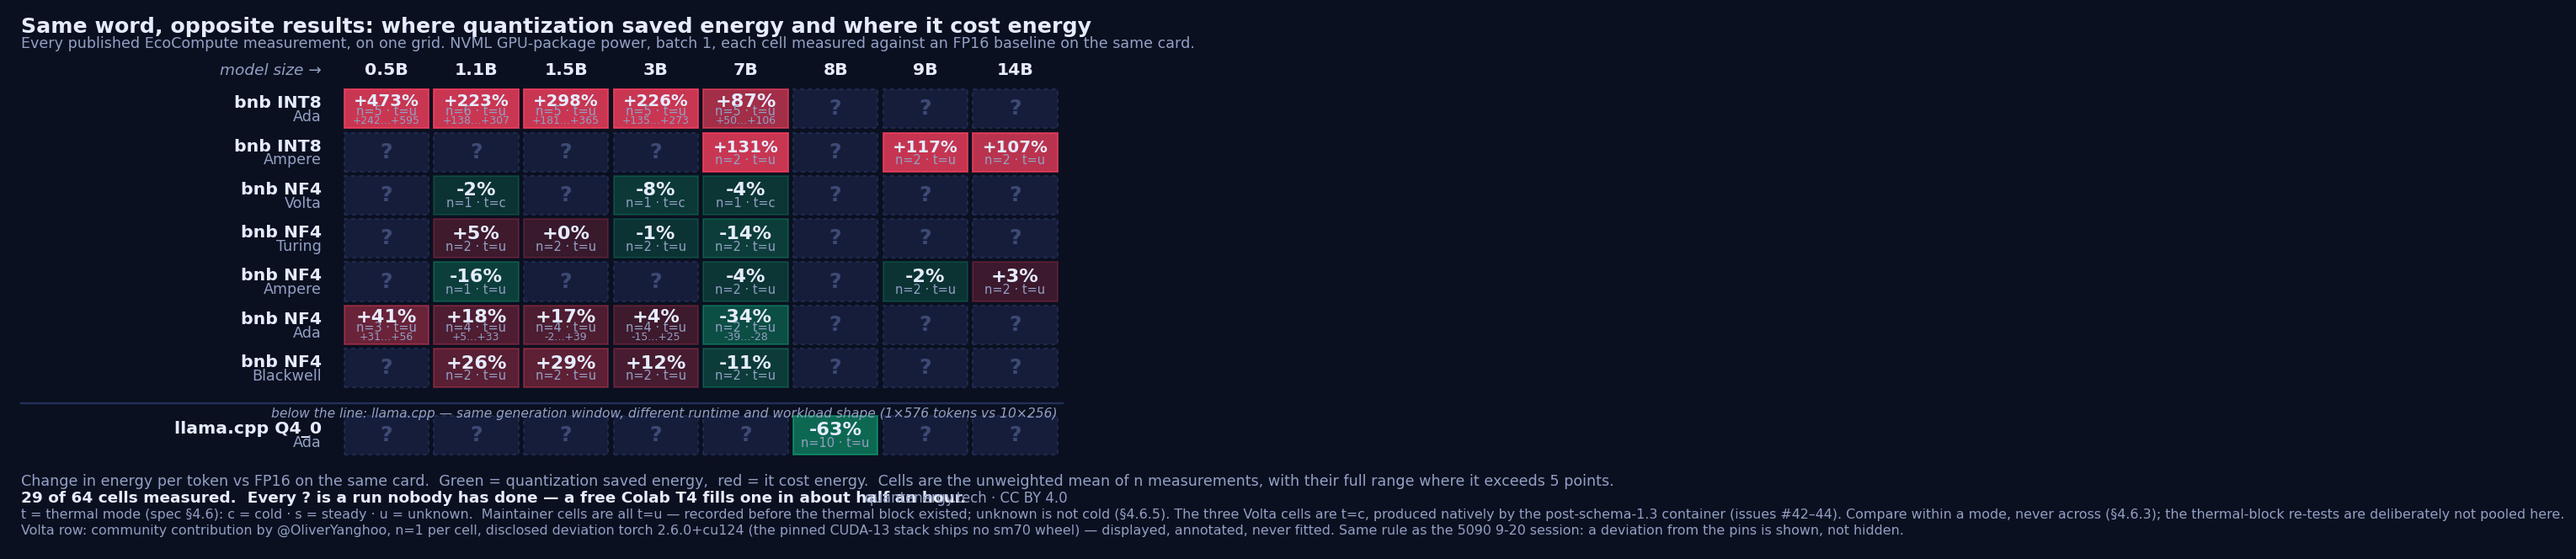
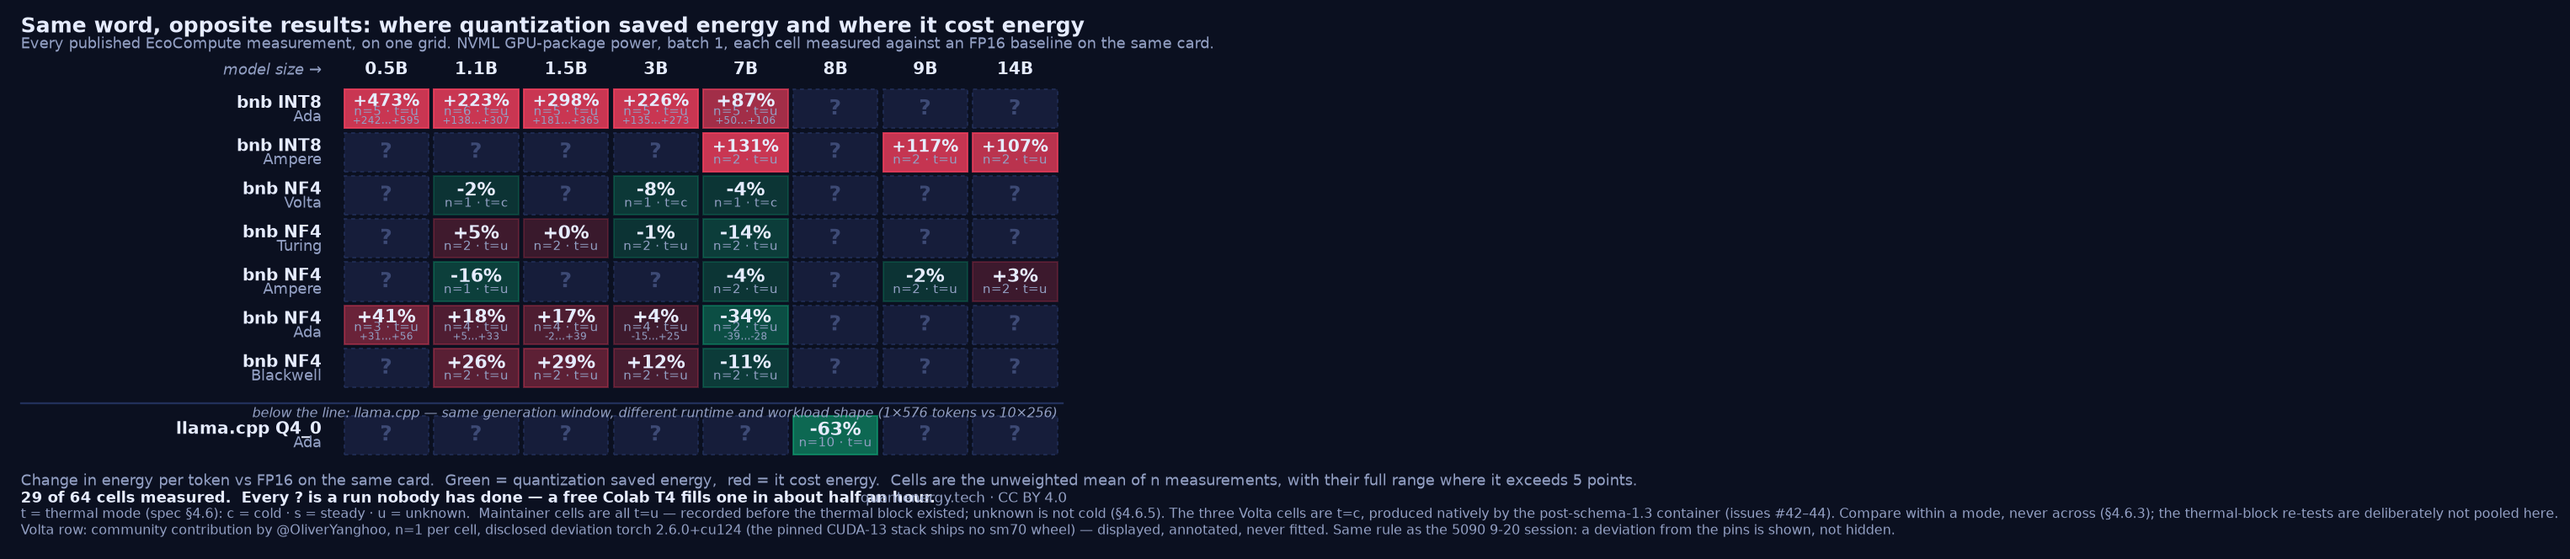
volta cells gain their measured perplexity deltas (+5.01/+27.56/+22.48 from the quality blocks of #42-44); trustbar card says '4 arch. classes fitted' to match the glossary's 5-classes-measured wording; zh homepage gains a bench entry; bench embed PNG re-exported dark with lifted stroke contrast (7.

diff --git a/index.html b/index.html
@@ -466,7 +466,7 @@
     </p>
 <div class="trustbar" aria-label="What backs these numbers">
       <a href="/method/">Protocol v1.1 · normative</a>
-      <a href="/measured/" title="Crossover anchors: distinct GPU × model × precision points behind the fitted curves. 5 GPU models across 4 architecture classes. Definition at /method/#glossary.">29 anchors · 5 GPU models · 4 arch. classes</a>
+      <a href="/measured/" title="Crossover anchors: distinct GPU × model × precision points behind the fitted curves. 5 GPU models across the 4 architecture classes with fitted curves. Definition at /method/#glossary.">29 anchors · 5 GPU models · 4 arch. classes fitted</a>
       <a href="/method/#glossary" title="Every count on this site, with its denominator.">All counts defined · glossary</a>
       <a href="/method/">NVML @ 10&nbsp;Hz · GPU package</a>
       <a href="/container/">MLCube-compatible</a><a href="/bench/">Method diagram · interactive</a>

diff --git a/bench/index.html b/bench/index.html
@@ -118,7 +118,7 @@ body{margin:0;background:var(--anatomy-page);color:var(--anatomy-text);font:14px
 <meta property="og:title" content="The differential power bench · EcoCompute">
 <meta property="og:url" content="https://quantenergy.tech/bench/">
 <meta property="og:description" content="An interactive isometric diagram of the differential measurement method: a two-arm power bench, live readouts, spinning flywheel and a chart recorder. Self-contained single file, works offline.">
-<meta property="og:image" content="https://quantenergy.tech/bench/bench-light.png">
+<meta property="og:image" content="https://quantenergy.tech/bench/bench.png">
 <meta property="og:image:width" content="1080">
 <meta property="og:image:height" content="780">
 <meta name="twitter:card" content="summary_large_image">

diff --git a/zh/index.html b/zh/index.html
@@ -118,6 +118,7 @@
         <h3>我想验证结果</h3>
         <p>用 Colab 或容器在你自己的卡上跑出 energy.json，再叠到公开曲线上。</p>
         <ul>
+          <li><a href="/bench/">先看一眼方法示意图</a>（交互）：跑之前，一张图看懂差分测量在测什么</li>
           <li>免费 Colab T4 即可（20–35 分钟）</li>
           <li><a href="#run">三行命令：下载 → 校验 → 运行</a></li>
           <li><a href="/blog/zh-container-guide.html">容器中文手册</a></li>

diff --git a/build/make_coverage_matrix.py b/build/make_coverage_matrix.py
@@ -158,9 +158,14 @@ def load(cells):
         handle, link = repl_index.get(os.path.basename(path), (None, None))
         prov = " ".join(p for p in (handle, f"({link})" if link else "") if p) or "community submission"
         thermal = (rep.get("thermal") or {}).get("mode") or "unknown"
+        # post-#29 reports carry a quality block (perplexity, teacher-forced on
+        # a vendored text after the power sampler stopped); pre-quality reports
+        # have no block and the cell keeps an empty column.
+        dppl = (rep.get("quality") or {}).get("delta_vs_fp16_pct")
         add(cells, "bnb INT8" if wl["precision"] == "INT8" else "bnb NF4",
             rep["system_under_test"]["gpu_arch"], float(wl["params_b"]),
             float(res["vs_fp16_energy_pct"]), 1, rep["system_under_test"]["gpu"],
+            dppl=float(dppl) if dppl is not None else None,
             thermal=thermal, prov=prov)
 
     # ── 5. llama.cpp GGUF, generation window re-cut from the raw traces ──
